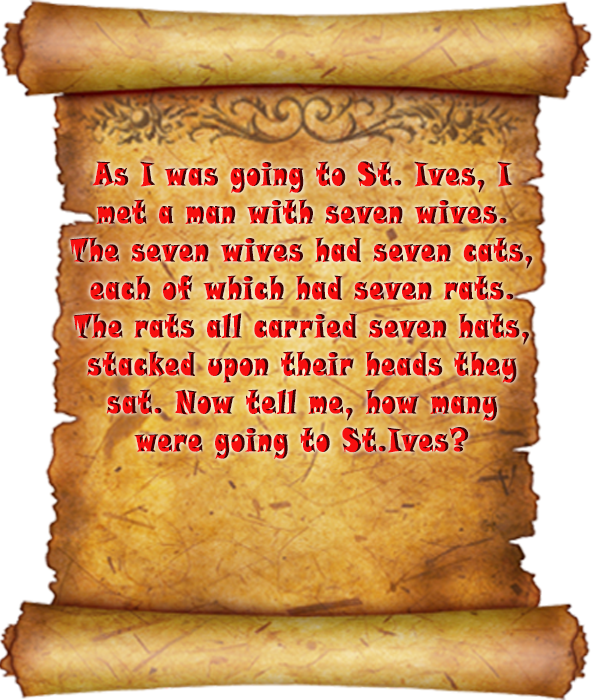
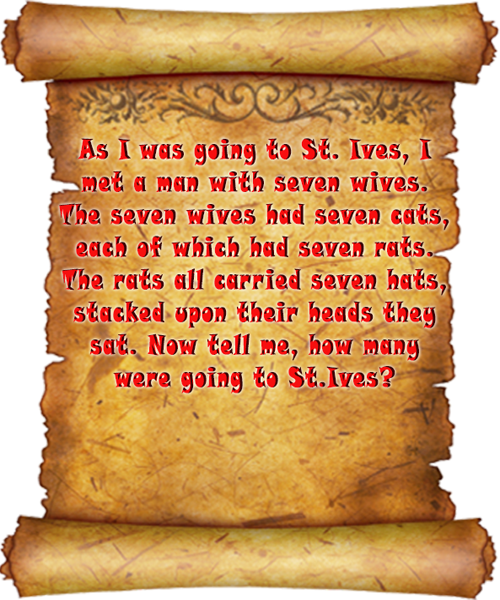
added comments to js files, corrected image sizes

diff --git a/js/m-app.js b/js/m-app.js
@@ -16,17 +16,15 @@ Object.prototype.win = function(){
     player.sprite = "images/winner.png";
     player.x = 600;
     player.y = -50;
-    moveRight = false;
-    moveLeft = false;
+    resetTimer = true;
     lives = 3;
     announceWinner();
 }
-
 //Show winner screen.
 function announceWinner(){
     popup('winner');
-    ctx.clearRect(600, -50, 110, 110);
-    ctx.clearRect(200, 0, 300, 200);
+    resetTimer = true;
+    ctx.clearRect(0, -50, 750, 750);
     player.reset();
 }
 
@@ -34,10 +32,11 @@ function announceWinner(){
 Object.prototype.timesUp = function(){
     player.sprite = "images/grave.png";
     player.x = 405;
-    player.y = 325;
+    player.y = 455;
     setTimeout(function(){ popup('timeUp') }, 500);
     setTimeout(function(){popup('timeUp'); player.sprite = 'images/elfin.png'; player.reset(); beginNewGame();}, 3000);
 }
+
 //If player is killed the number of lives decrements, and if no more lives, game is over. Otherwise ask player to try again.
 Object.prototype.dead = function(){
     lives = lives - 1;
@@ -45,7 +44,7 @@ Object.prototype.dead = function(){
     if(lives <= 0){
         player.sprite = "images/grave.png";
         player.x = 405;
-        player.y = 325;
+        player.y = 455;
         setTimeout(function(){ popup('noLivesLeft') }, 900);
         setTimeout(function(){ popup('noLivesLeft'); player.sprite = 'images/elfin.png'; player.reset(); beginNewGame();}, 7000);
     } else {
@@ -69,11 +68,12 @@ function playerNewImageClear(){
 function quitGame(){
     popup('quitPopUp');
     player.x = 405;
-    player.y = 325;
+    player.y = 455;
     player.sprite = 'images/grave.png';
     setTimeout(function(){player.sprite = 'images/elfin.png'; popup('quitPopUp'); player.reset(); beginNewGame();}, 5000);
 }
 
+//sets initial lives and gems, and then inserts number into location on screen
 var begin = false;
 var lives = 3;
 var livesRemaining = document.getElementById('lives');
@@ -149,7 +149,6 @@ var Weeds = function(x,y) {
     this.speed = 100;
 }
 
-
 //Controls up and down movement of weeds
 var moveUp = true;
 var moveDown = false;
@@ -182,13 +181,6 @@ var moveLeft = false;
 //controls the movement of Bee Gatekeeper
 Gatekeeper.prototype.update = function(dt) {
     //Sets bounds and direction of movement
-    if(moveLeft || moveRight){
-        this.sprite = "images/bee.png";
-    } else {
-        this.sprite = "images/goodbye.png";
-        this.x = 220;
-        this.y = 30;
-    }
     if(moveRight && this.x <= 600){
             this.x += this.speed * dt;
     } else {
@@ -318,7 +310,6 @@ Player.prototype.update = function(){
 Player.prototype.handleInput = function(e){
     this.ctlKey = e;
 }
-
 
 // Instantiate enemies objects
 var allEnemies = [];

diff --git a/css/pop-styles.css b/css/pop-styles.css
@@ -1,13 +1,13 @@
 
 #cover {
-   background-color:#111;
+   background-color: #111;
    opacity: 0.65;
-   *background:none;
-   position:absolute;
+   *background: none;
+   position: absolute;
    z-index: 2;
-   top:40px;
-   left:0px;
-   width:100%;
+   top: 40px;
+   left: 0px;
+   width: 100%;
    height: 757px;
 }
 
@@ -39,58 +39,58 @@
 	background:url(images/rip.png) no-repeat;
 	position:absolute;
 	margin: auto;
-	width:500px;
-	height:600px;
+	width: 500px;
+	height: 600px;
 	z-index: 3;
-	top: 10px;
+	top: 20px;
 	left: 430px;
 }
 
 #riddle {
 	background:url(images/riddle.png) no-repeat;
 	position:absolute;
-	width:600px;
-	height:700px;
+	width: 500px;
+	height: 600px;
 	z-index: 3;
 	top: 10px;
-	left: 375px;
+	left: 420px;
 }
 
 #winner {
 	background:url(images/winner.png) no-repeat;
-	position:absolute;
-	width:600px;
-	height:700px;
+	position: absolute;
+	width: 460px;
+	height: 550px;
 	z-index: 3;
-	top: 10px;
-	left: 375px;
+	top: 40px;
+	left: 455px;
 }
 
 #playAgain{
 	margin-bottom: 15px;
-	position:relative;
+	position: relative;
 	border-radius: 10px;
 	background-color: #EFE9D0;
-	top: 575px;
+	top: 455px;
 	height: 40px;
 	width: 145px;
-	left: -10px;
+	left: -5px;
 	font-size: 1.1em;
 	color: red;
 }
 
 #stung {
 	background:url(images/stung-alert.png) no-repeat;
-	position:absolute;
-	width:600px;
-	height:525px;
+	position: absolute;
+	width: 600px;
+	height: 525px;
 	z-index: 3;
 	top: 15px;
 	left: 355px;
 }
 
 #riddle input{
-	top: 500px;
+	top: 420px;
 	margin-bottom: 10px;
 	position: relative;
 }
@@ -141,9 +141,9 @@
 }
 
 .question {
-	position:absolute;
-	width:400px;
-	height:400px;
+	position: absolute;
+	width: 400px;
+	height: 400px;
 	z-index: 3;
 	top: 60px;
 	left: 475px;
@@ -151,16 +151,16 @@
 
 .question button {
 	margin-bottom: 15px;
-	position:relative;
+	position: relative;
 	border-radius: 10px;
 	background-color: #EFE9D0;
-	top:260px;
+	top: 260px;
 	font-size: 1.1em;
 	color: red;
 }
 
 .alerts {
-	position:absolute;
+	position: absolute;
 	width:400px;
 	height:400px;
 	z-index: 3;
@@ -169,7 +169,7 @@
 }
 
 .alerts button {
-	position:relative;
+	position: relative;
 	border-radius: 10px;
 	background-color: #EFE9D0;
 	top:300px;

diff --git a/index.html b/index.html
@@ -61,7 +61,7 @@
 
 	<script>
 		var resetTimer = true;
-
+		//initial start screen
 		function startGame(){
         	document.getElementById('start').style.display = 'none';
         	document.getElementById('screen-overlay').style.display = 'none';
@@ -69,16 +69,17 @@
         	resetTimer = false;
         	countdown();
     	}
-
+    	//begin new game if player chooses to
     	function beginNewGame(){
     		document.getElementById('start').style.display = 'block';
         	document.getElementById('screen-overlay').style.display = 'block';
+        	ctx.clearRect(0, -50, 750, 750);
         	lives = 3;
         	begin = false;
         	resetTimer = true;
         	gemsObtained = 0;
     	}
-
+    	//controls timer
         function startTimer(duration, display) {
 		    var start = Date.now(),
 		        diff,
@@ -118,13 +119,13 @@
     		var settings = setInterval(timer, 1000);
 			}
 
-
 		function countdown() {
 	    		var timeMinutes = 60 * 3,
 	        	display = document.querySelector('#time');
 	    		startTimer(timeMinutes, display);
 		};
 
+		//governs action of gatekeeper enemy, and its response to user's input
         function responseToAnswer(){
             var reply = document.getElementById('answer').value;
             var answer = 1;
@@ -136,9 +137,6 @@
                 setTimeout(function(){popup('proceed');
 	                if(gemsObtained >= 3){
 	                    player.win();
-	                    Gatekeeper.sprite = "images/goodbye.png";
-	                    Gatekeeper.x = 220;
-	                    Gatekeeper.y = 30;
 	                } else {
 	                    player.x = 405;
 	                    player.y = 425;
@@ -152,8 +150,6 @@
                 setTimeout(function(){popup('stung'); player.dead()}, 7000);
             }
         }
-
-
 
 	</script>
 	<script src="js/css-pop.js"></script>

diff --git a/css/style.css b/css/style.css
@@ -51,8 +51,8 @@ canvas {
 #start{
 	display: block;
 	margin: auto;
-    height: 600px;
-    width:	500px;
+    height: 540px;
+    width:	460px;
     background-image:url(images/startscreen.png);
     background-repeat: no-repeat;
     position: absolute;
@@ -70,7 +70,7 @@ canvas {
 	font-size: 1.4em;
 	opacity: 1;
 	color: red;
-	margin-top: 430px;
+	margin-top: 390px;
 	border: 2px solid #333333;
 	box-shadow: 10px 10px 15px black;
 	border-radius: 10px;
